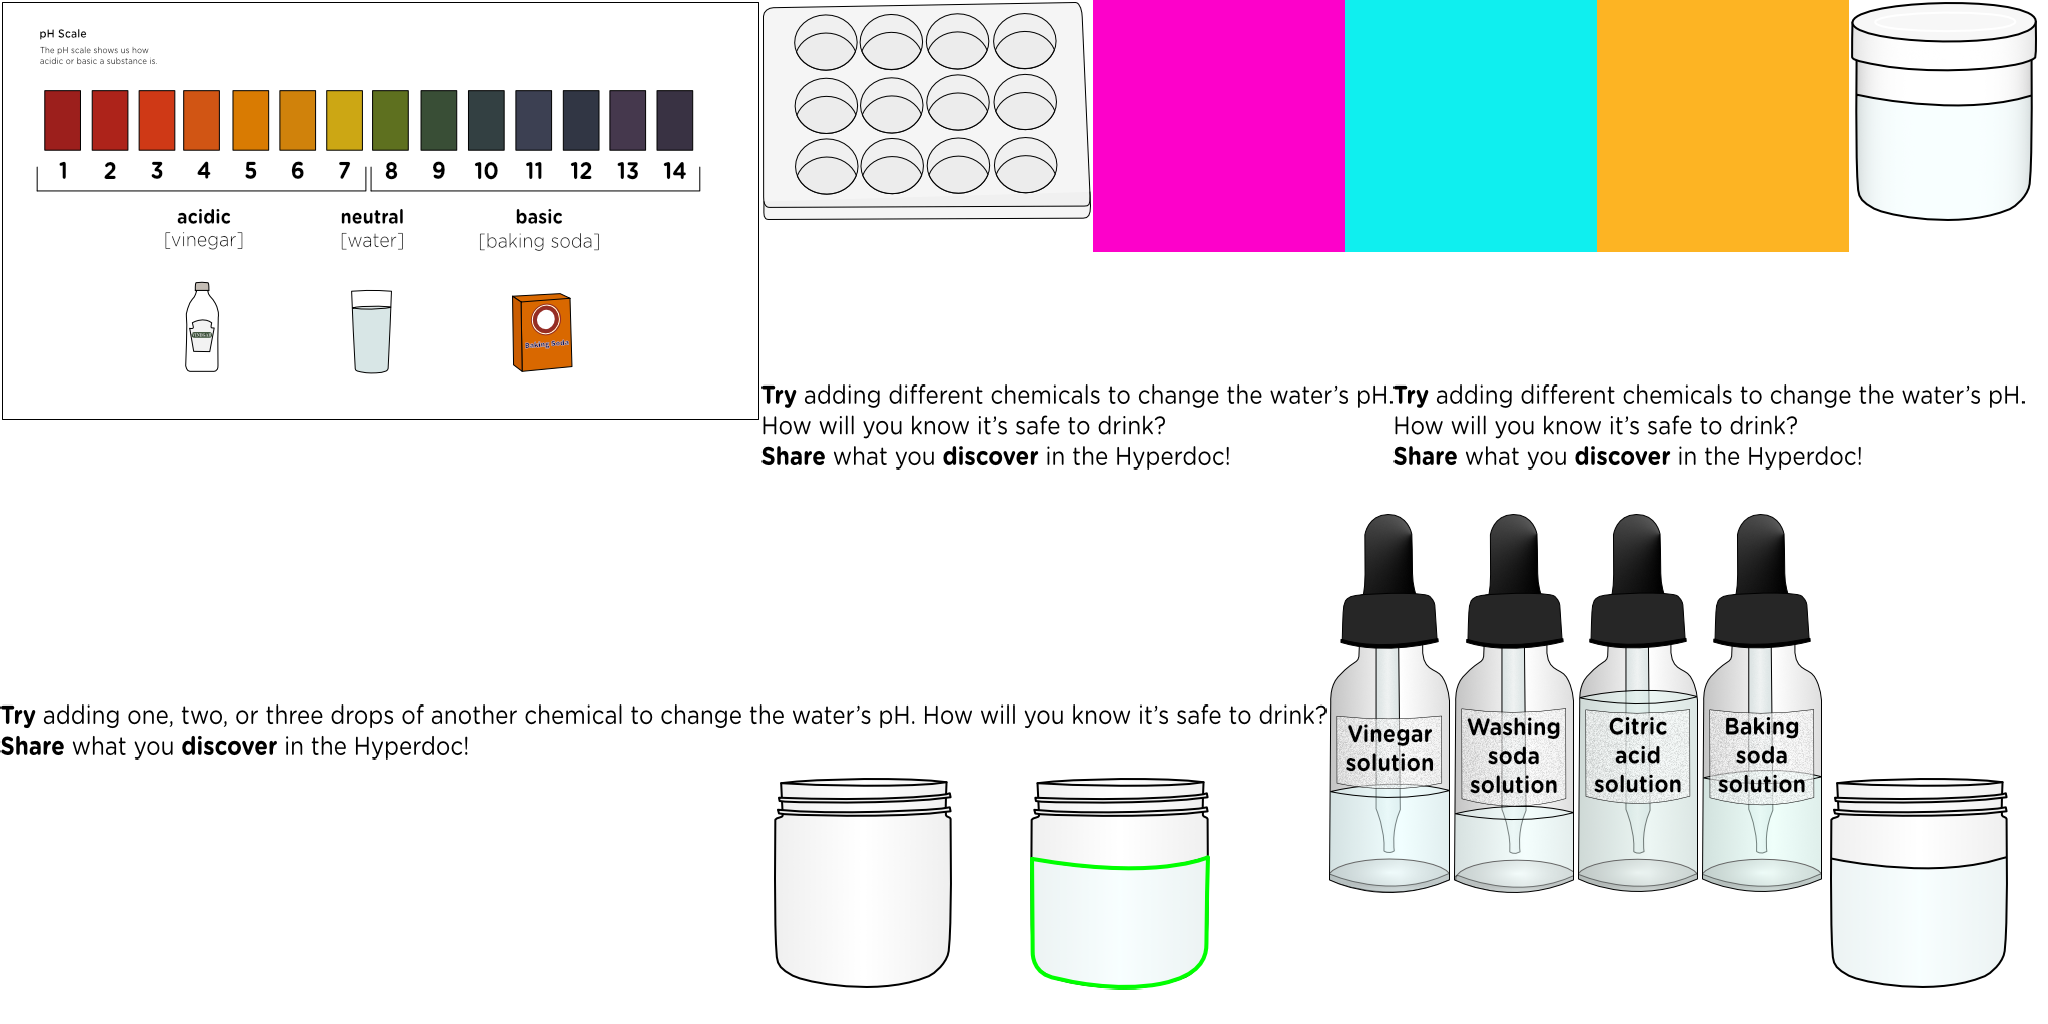
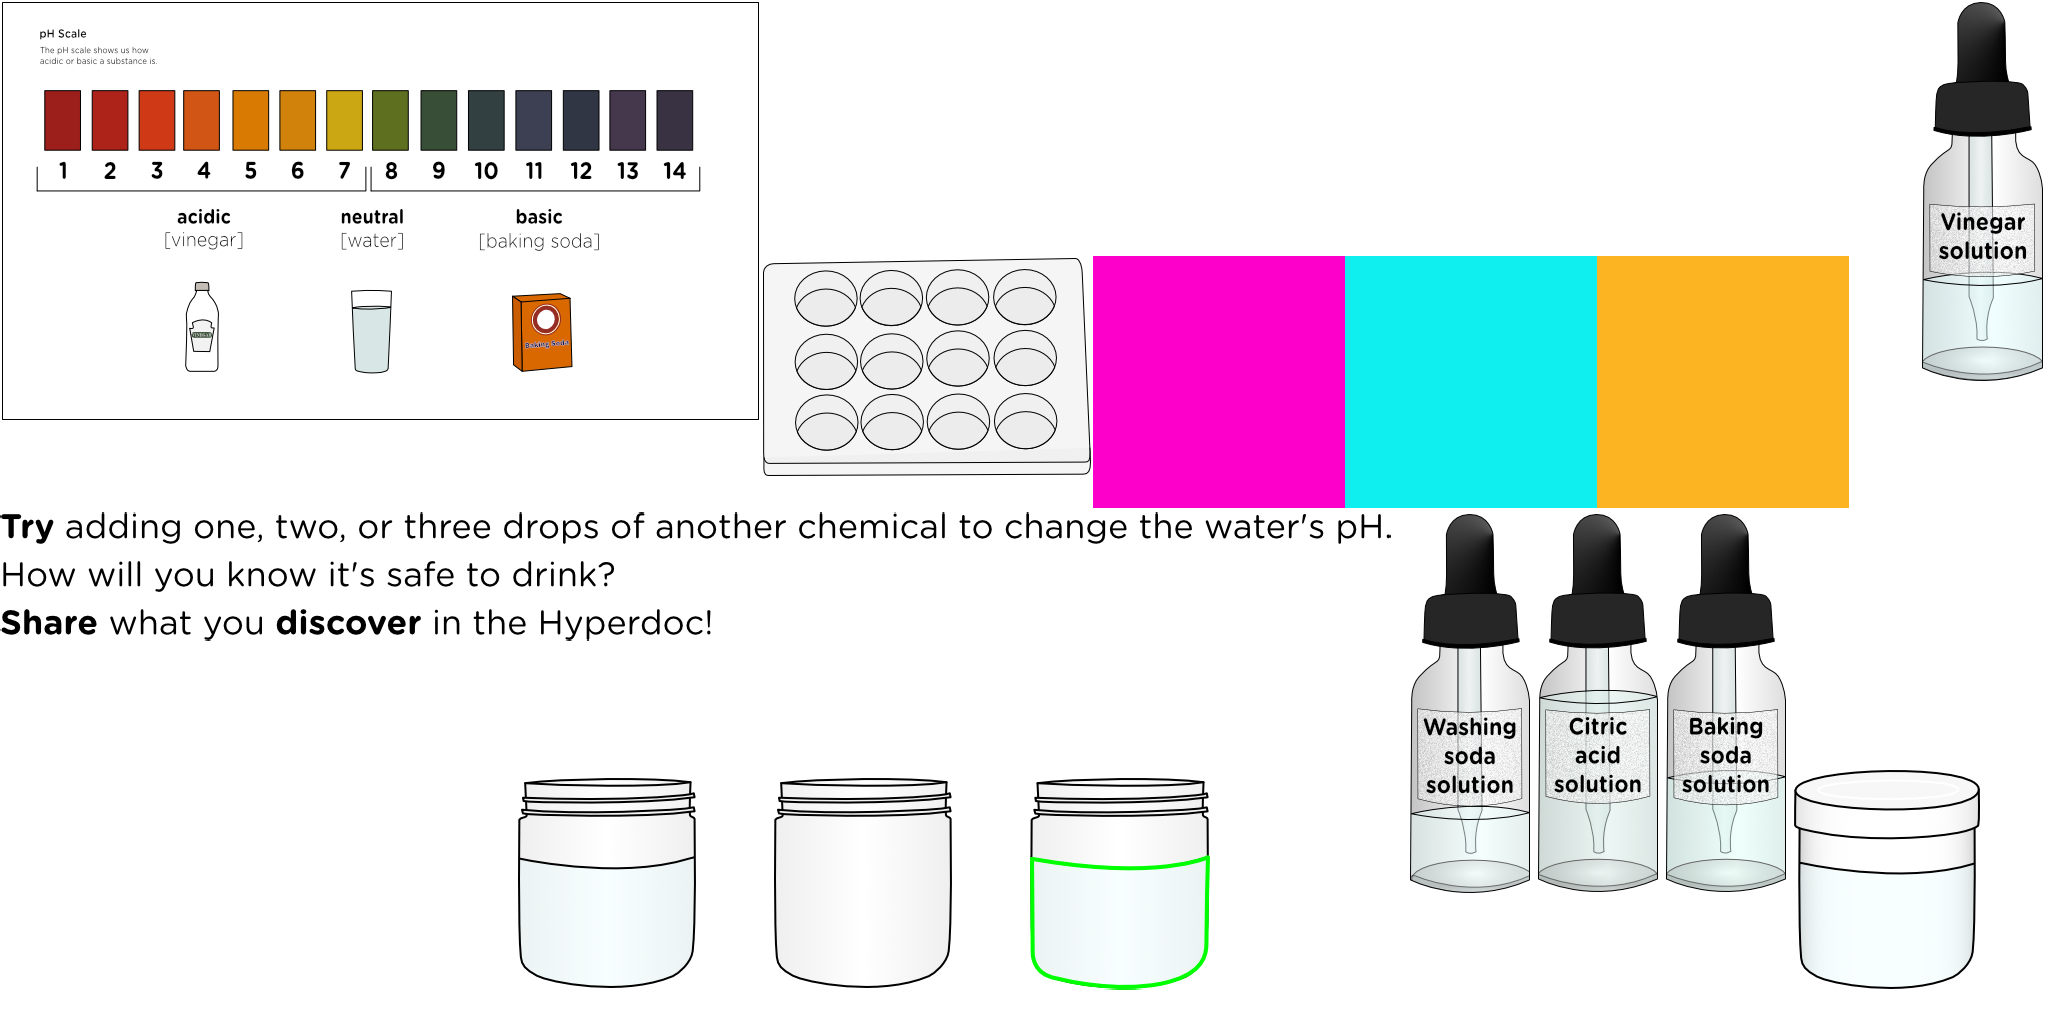
pipette fix
easier to squeeze/bolded words in instructions

Changed region(s): [[0.0, 0.0, 1.0, 0.9688], [0.25, 0.75, 0.3438, 0.8125]]

diff --git a/scripts/c3runtime.js b/scripts/c3runtime.js
@@ -3152,8 +3152,8 @@ d},Unpin(){this._SetPinInst(null);this._mode="";this._propSet.clear();this._pinI
 		},
 		() => 0,
 		() => "Water",
-		() => 36,
-		() => 174,
+		() => 46,
+		() => 136,
 		() => 1,
 		() => 20,
 		p => {
@@ -3162,7 +3162,7 @@ d},Unpin(){this._SetPinInst(null);this._mode="";this._propSet.clear();this._pinI
 		},
 		p => {
 			const f0 = p._GetNode(0).GetBoundMethod();
-			return () => (658 + f0((-5), 5));
+			return () => (650 + f0((-5), 5));
 		},
 		p => {
 			const f0 = p._GetNode(0).GetBoundMethod();
